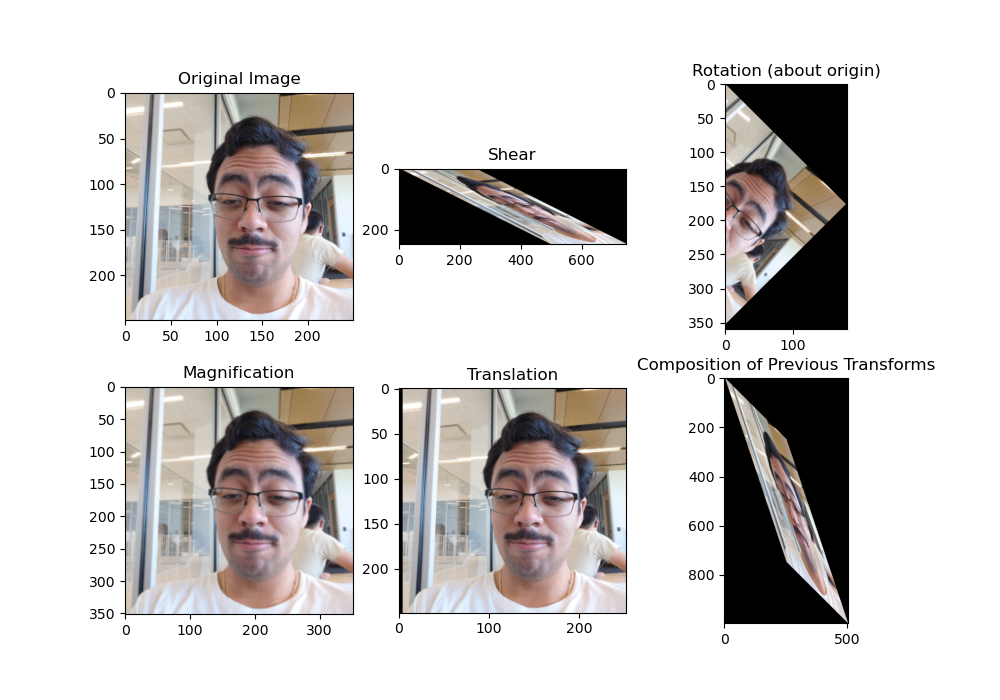
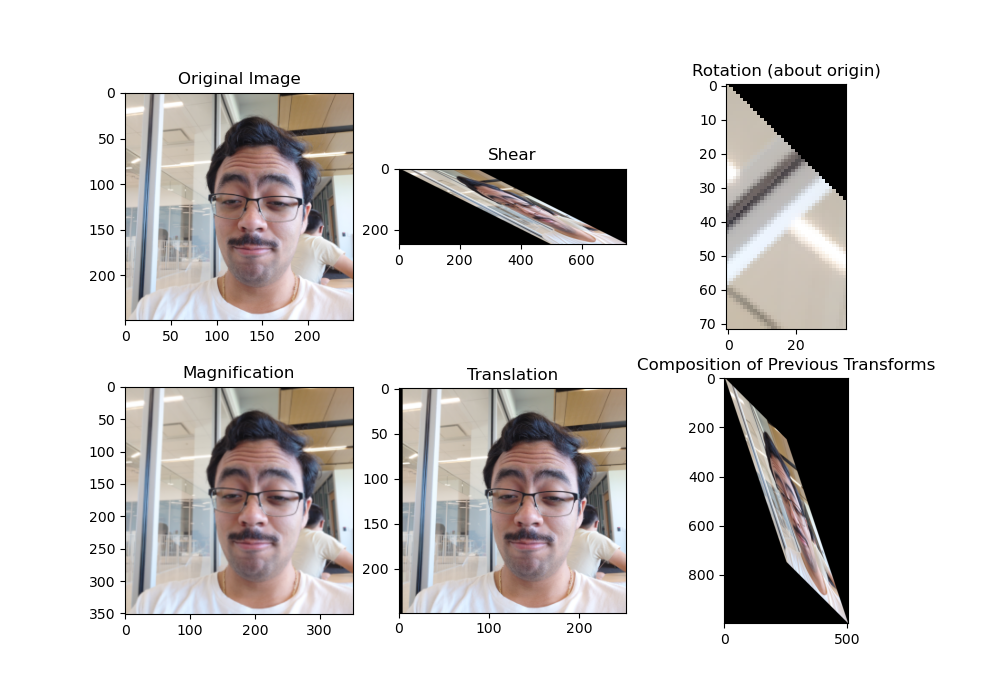
Correct Interpolation formulas

Changed region(s): [[0.682, 0.12, 0.868, 0.51]]

diff --git a/Q1/q1.py b/Q1/q1.py
@@ -73,16 +73,16 @@ def bilinearInterpolation(src, inverse, y, x):
 
     # only one of the dimensions is a vaild initial coord
     elif (x1 == x2):
-        value = p11 * (y2 - yi) + p12 * (yi - y1)
+        value = p11 * ((y2 - yi)/(y2 - y1)) + p12 * ((yi - y1)/(y2 - y1))
         return value
     elif (y1 == y2):
-        value = p12 * (x2 - xi) + p22 * (xi - x1)
+        value = p12 * ((x2 - xi)/(x2 - x1)) + p22 * ((xi - x1)/(x2 - x1))
         return value
 
     # weighted mean problem
-    row1 = p11 * (x2 - xi) + p21 * (xi - x1)
-    row2 = p12 * (x2 - xi) + p22 * (xi - x1)
-    value = row1 * (y2 - yi) + row2 * (yi - y1)
+    row1 = p11 * ((x2 - xi)/(x2 - x1)) + p21 * ((xi - x1)/(x2 - x1))
+    row2 = p12 * ((x2 - xi)/(x2 - x1)) + p22 * ((xi - x1)/(x2 - x1))
+    value = row1 * ((y2 - yi)/(y2 - y1)) + row2 * ((yi - y1)/(y2 - y1))
 
     return value
 
